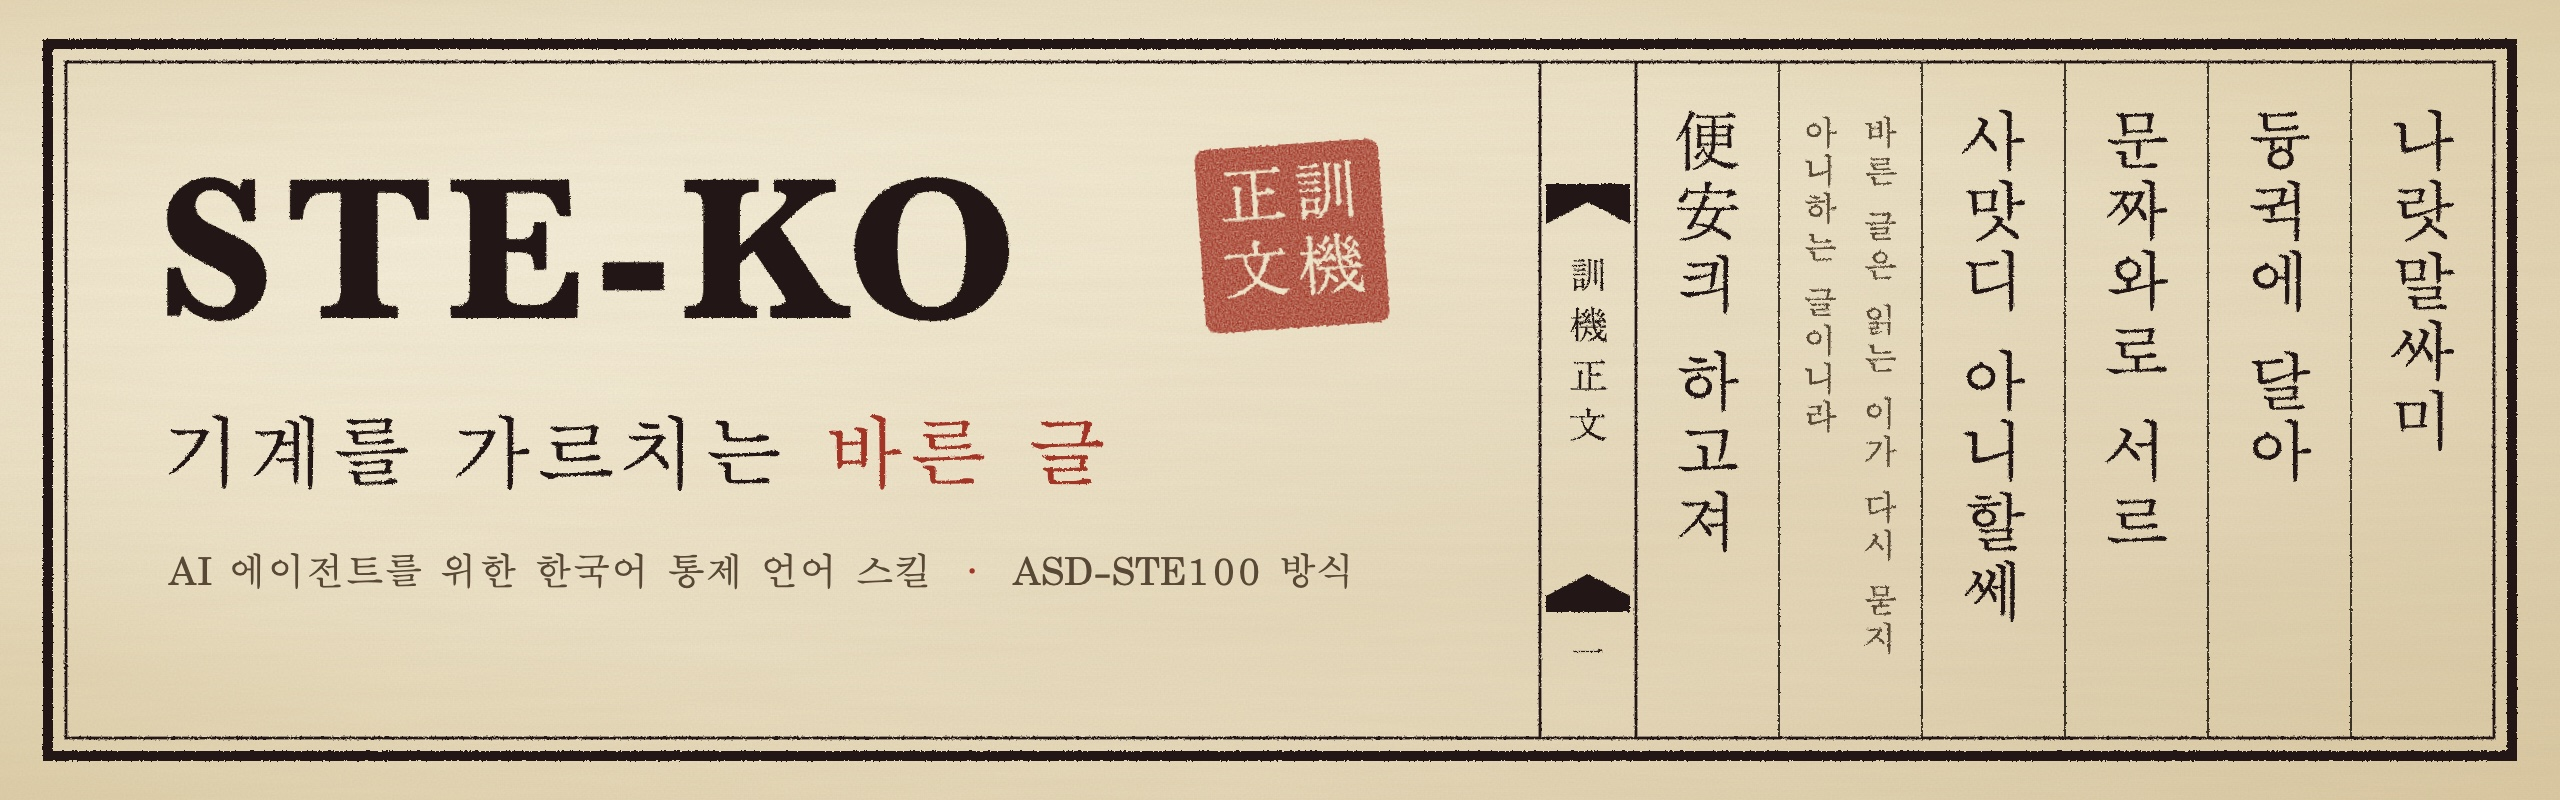
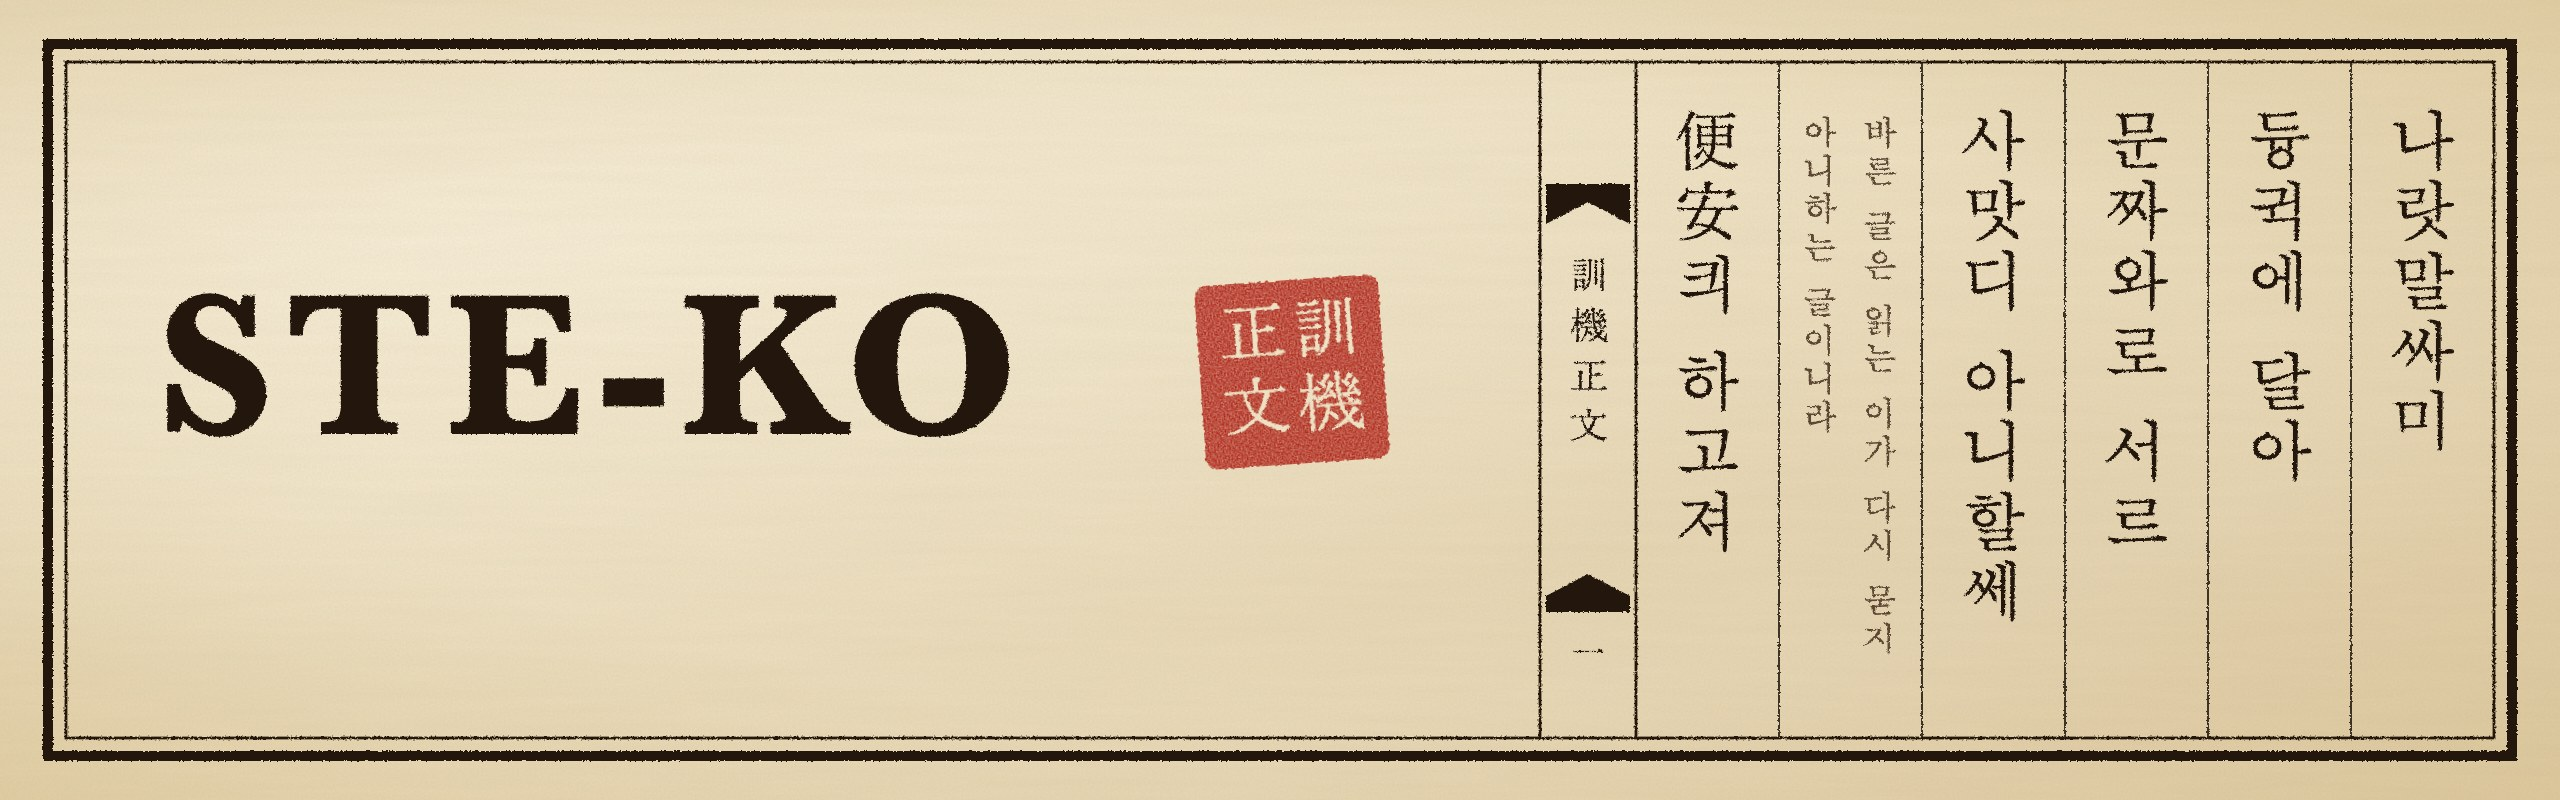
배너 왼쪽에 STE-KO 제목과 낙관만 남김
- assets/banner.html: 제목 아래 한국어 두 줄(표어, 설명)을 뺌. 제목과 낙관을
  왼쪽 면 세로 가운데로 옮김
- 제목 아래 붉은 줄을 지움. 높이가 0인 선에 SVG 필터를 걸어서 전에도 그려지지 않았음
- assets/banner.jpg: 다시 찍음. 2560x800, JPEG 품질 88

diff --git a/assets/banner.html b/assets/banner.html
@@ -1,6 +1,6 @@
 <!doctype html>
 <!--
-  README 배너 원본. 훈민정음 해례본·언해본 판면(광곽, 계선, 판심, 어미)을 본떴다.
+  README 배너 소스. 훈민정음 해례본·언해본 판면(광곽, 계선, 판심, 어미)을 본떴다.
   assets/banner.jpg 는 이 파일을 1280x400 CSS px, 기기 배율 2(2560x800)로 찍어 JPEG 품질 88로 저장한 것이다.
   종이 결 잡음 때문에 PNG는 2MB가 넘어서 JPEG를 쓴다.
   옛한글 조합을 지원하는 기본 글꼴이 없어서 언해 서문은 현대 음절로 옮겨 적었다.
@@ -33,40 +33,23 @@
   svg.layer { position: absolute; inset: 0; }
   .ink { filter: url(#inkbleed); }
 
-  /* 왼쪽 면: 제목 */
+  /* 왼쪽 면: 제목만 둔다. 세로 가운데 */
   .title {
     position: absolute;
     left: 78px;
-    top: 74px;
+    top: 132px;
     font-family: "Baskerville", "PT Serif", serif;
     font-weight: 700;
     font-size: 104px;
     letter-spacing: 6px;
     line-height: 1;
   }
-  .tagline {
-    position: absolute;
-    left: 82px;
-    top: 206px;
-    font-size: 40px;
-    letter-spacing: 2px;
-  }
-  .tagline em { font-style: normal; color: var(--vermilion); }
-  .desc {
-    position: absolute;
-    left: 84px;
-    top: 276px;
-    font-size: 19px;
-    letter-spacing: 0.5px;
-    color: var(--ink-soft);
-  }
-  .desc span { margin: 0 10px; color: var(--vermilion); }
 
   /* 낙관: 訓機正文 (백성 民 대신 기계 機, 소리 音 대신 글 文) */
   .seal {
     position: absolute;
     left: 600px;
-    top: 72px;
+    top: 140px;
     width: 92px;
     height: 92px;
     transform: rotate(-4deg);
@@ -192,14 +175,9 @@
       <polygon points="773,92 815,92 815,112 794,101 773,112"/>
       <polygon points="773,298 794,287 815,298 815,306 773,306"/>
     </g>
-
-    <!-- 제목 아래 가는 줄 -->
-    <line class="ink" x1="82" y1="190" x2="470" y2="190" stroke="#b0281c" stroke-width="2"/>
   </svg>
 
   <div class="title ink">STE-KO</div>
-  <div class="tagline ink">기계를 가르치는 <em>바른 글</em></div>
-  <div class="desc">AI 에이전트를 위한 한국어 통제 언어 스킬<span>·</span>ASD-STE100 방식</div>
 
   <div class="seal" aria-label="訓機正文">
     <div class="box"></div>
